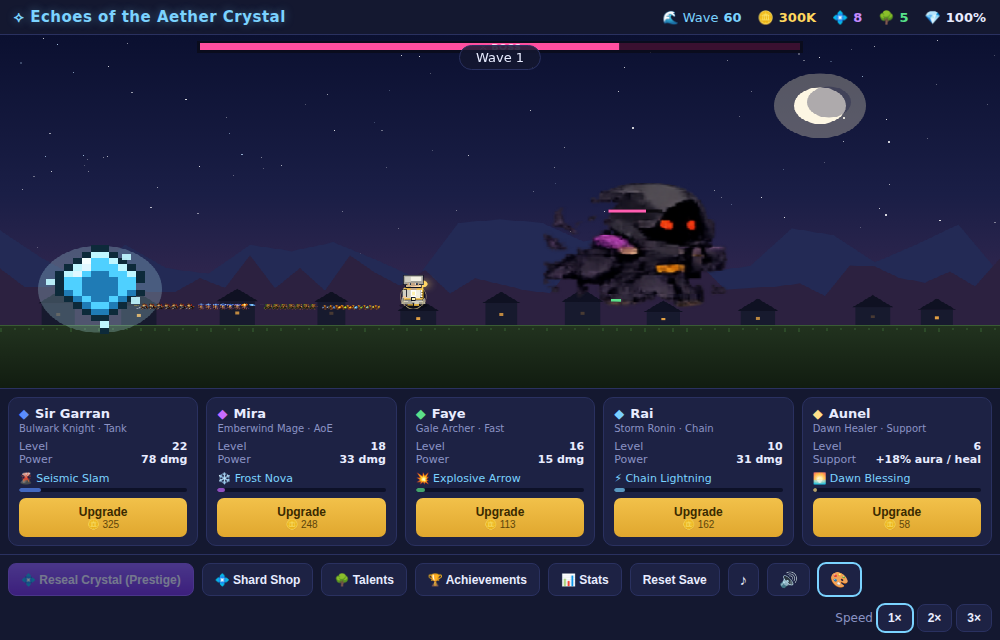
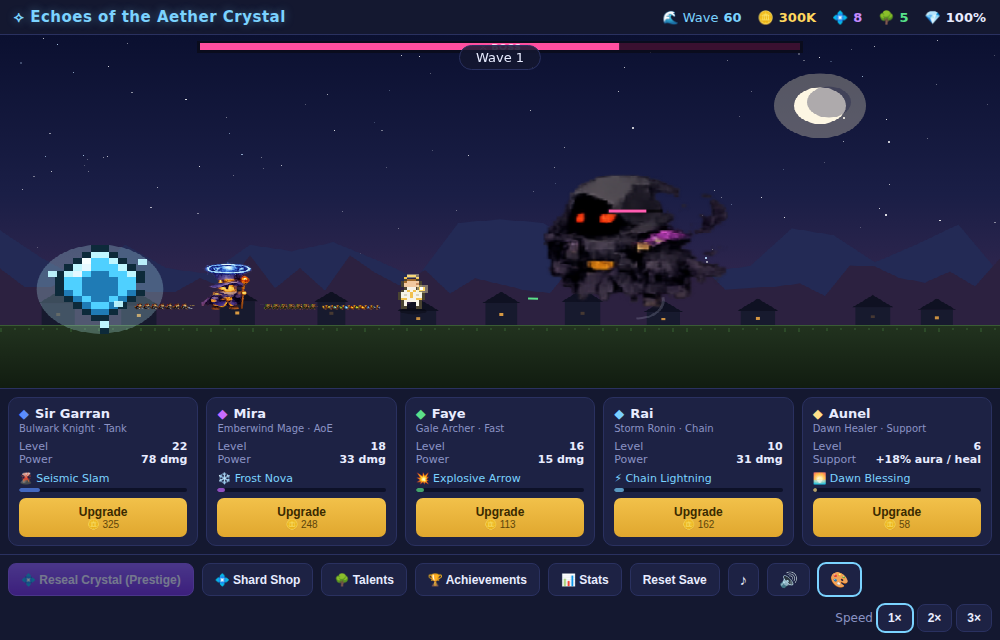
Remove healer sheet; mirror non-archer heroes and the boss
- Delete assets/healer.png and drop Aunel from SHEET_CONFIG so the Healer uses
  the built-in canvas art; also removed healer from generate-sheets.mjs.
- Add a per-sheet flip flag and mirror in Sheets.draw so Garran, Mira, Rai and
  the boss face right toward the incoming enemies. Faye (archer art already
  faces right) is not flipped.

verify7 updated (Aunel canvas fallback + flip flags) and passing; docs updated.

Claude-Session: https://claude.ai/code/session_0137Kmgx8usseqRPpPc7daxH

diff --git a/sheets.js b/sheets.js
@@ -24,14 +24,15 @@ window.Sheets = (function () {
   // (idle/walk/attack/cast); frame counts per row vary and are set below.
   const rows4 = (i,w,a,c) => ({ idle:{row:0,frames:i,fps:7}, walk:{row:1,frames:w,fps:9},
                                 attack:{row:2,frames:a,fps:12}, cast:{row:3,frames:c,fps:11} });
+  // flip:true mirrors the sprite horizontally so it faces the incoming enemies
+  // (right). The archer art already faces right, so it isn't flipped. Aunel has
+  // no sheet and uses the built-in canvas art.
   const SHEET_CONFIG = {
-    garran: { file:'warrior.png',  rows:4, cols:5, fit:1.25, anim:rows4(5,2,1,1) },  // Knight  (warrior art)
-    mira:   { file:'wizard.png',   rows:4, cols:8, fit:1.20, anim:rows4(5,8,2,2) },  // Mage    (purple wizard art)
-    faye:   { file:'archer.png',   rows:4, cols:5, fit:1.20, anim:rows4(5,5,1,2) },  // Archer
-    rai:    { file:'sorcerer.png', rows:4, cols:5, fit:1.22, anim:rows4(5,1,1,1) },  // Ronin   (elemental sorcerer art)
-    boss:   { file:'shadow.png',   rows:4, cols:5, fit:1.6,  anim:rows4(2,5,1,2) },  // Boss    (shadow mage art)
-    aunel:  { file:'healer.png',   rows:4, cols:6, fit:1.15,                         // Healer  (generated placeholder)
-      anim:{ idle:{row:0,frames:6,fps:6}, walk:{row:1,frames:6,fps:9}, attack:{row:2,frames:6,fps:13}, cast:{row:3,frames:6,fps:12} } },
+    garran: { file:'warrior.png',  rows:4, cols:5, fit:1.25, flip:true, anim:rows4(5,2,1,1) },  // Knight  (warrior art)
+    mira:   { file:'wizard.png',   rows:4, cols:8, fit:1.20, flip:true, anim:rows4(5,8,2,2) },  // Mage    (purple wizard art)
+    faye:   { file:'archer.png',   rows:4, cols:5, fit:1.20,            anim:rows4(5,5,1,2) },  // Archer  (already faces right)
+    rai:    { file:'sorcerer.png', rows:4, cols:5, fit:1.22, flip:true, anim:rows4(5,1,1,1) },  // Ronin   (elemental sorcerer art)
+    boss:   { file:'shadow.png',   rows:4, cols:5, fit:1.6,  flip:true, anim:rows4(2,5,1,2) },  // Boss    (shadow mage art)
   };
 
   const imgs = {};   // id -> { img, ok, failed }
@@ -87,10 +88,15 @@ window.Sheets = (function () {
 
     const dh = targetH * (c.fit || 1);
     const dw = fw * (dh / fh);
-    const prev = ctx.imageSmoothingEnabled;
+    ctx.save();
     ctx.imageSmoothingEnabled = true;
-    ctx.drawImage(rec.img, sx, sy, fw, fh, x - dw / 2, baseY - dh, dw, dh);
-    ctx.imageSmoothingEnabled = prev;
+    if (c.flip){                       // mirror horizontally around x
+      ctx.translate(x, 0); ctx.scale(-1, 1);
+      ctx.drawImage(rec.img, sx, sy, fw, fh, -dw / 2, baseY - dh, dw, dh);
+    } else {
+      ctx.drawImage(rec.img, sx, sy, fw, fh, x - dw / 2, baseY - dh, dw, dh);
+    }
+    ctx.restore();
     return true;
   }
 

diff --git a/README.md b/README.md
@@ -120,13 +120,14 @@ toggle with the **🎨** button (or `?sheets=0` to force the built-in canvas art
 | `wizard.png` | Mira (Mage) |
 | `archer.png` | Faye (Archer) |
 | `sorcerer.png` | Rai (Storm Ronin) |
-| `healer.png` | Aunel (Healer) |
 | `shadow.png` | Boss |
 
 The hero/boss sheets are **sliced from uploaded source art** in `assets/raw/`
 (via `slice-sheets.mjs`, which strips the baked-in titles/labels and re-packs
-clean grids); `healer.png` is a generated placeholder. Any missing/broken sheet
-falls back to the built-in canvas art automatically, so the game always runs.
+clean grids); Aunel (Healer) has no sheet and uses the built-in canvas art.
+Non-archer heroes and the boss are mirrored to face the incoming enemies. Any
+missing/broken sheet falls back to the built-in canvas art, so the game always
+runs.
 
 ## Files
 

diff --git a/assets/README.md b/assets/README.md
@@ -2,8 +2,8 @@
 
 The game sheets here are **sliced from the uploaded source art in `raw/`** by
 `../slice-sheets.mjs` (it auto-detects sprite rows/frames, drops the baked-in
-titles and row labels, and re-packs them into clean uniform grids). `healer.png`
-is a generated placeholder (no Healer art was provided). Filenames map to
+titles and row labels, and re-packs them into clean uniform grids). Aunel the
+Healer has no sheet and uses the built-in canvas art. Filenames map to
 characters in `../sheets.js`:
 
 | File | Character in game | Source sheet |
